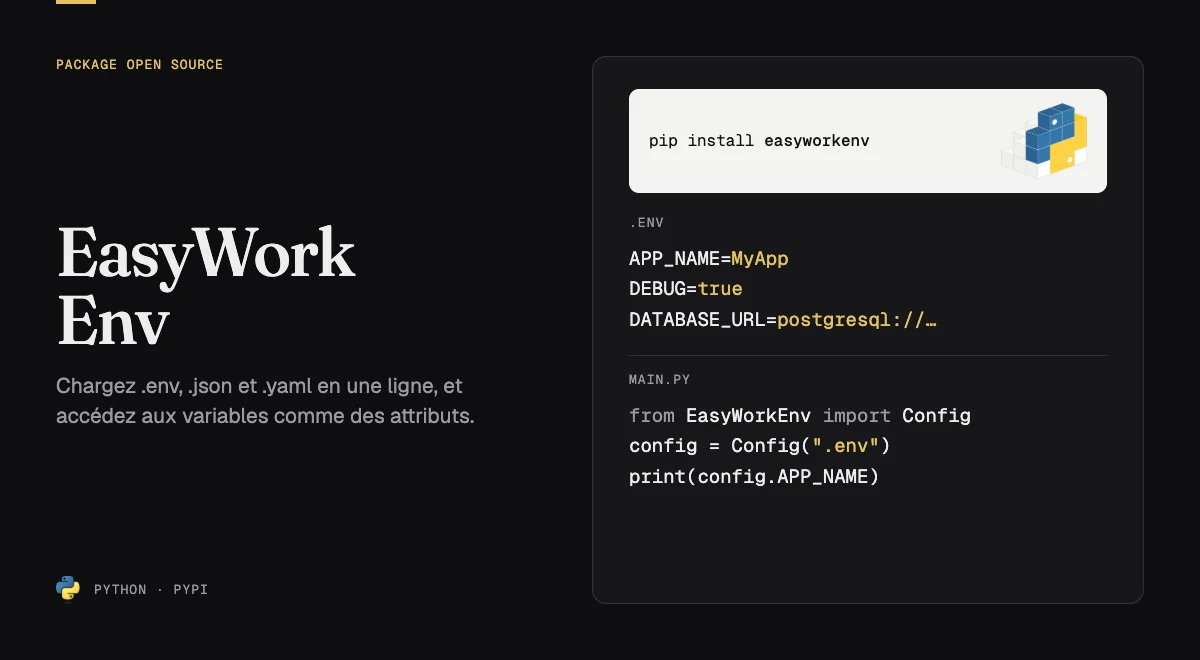
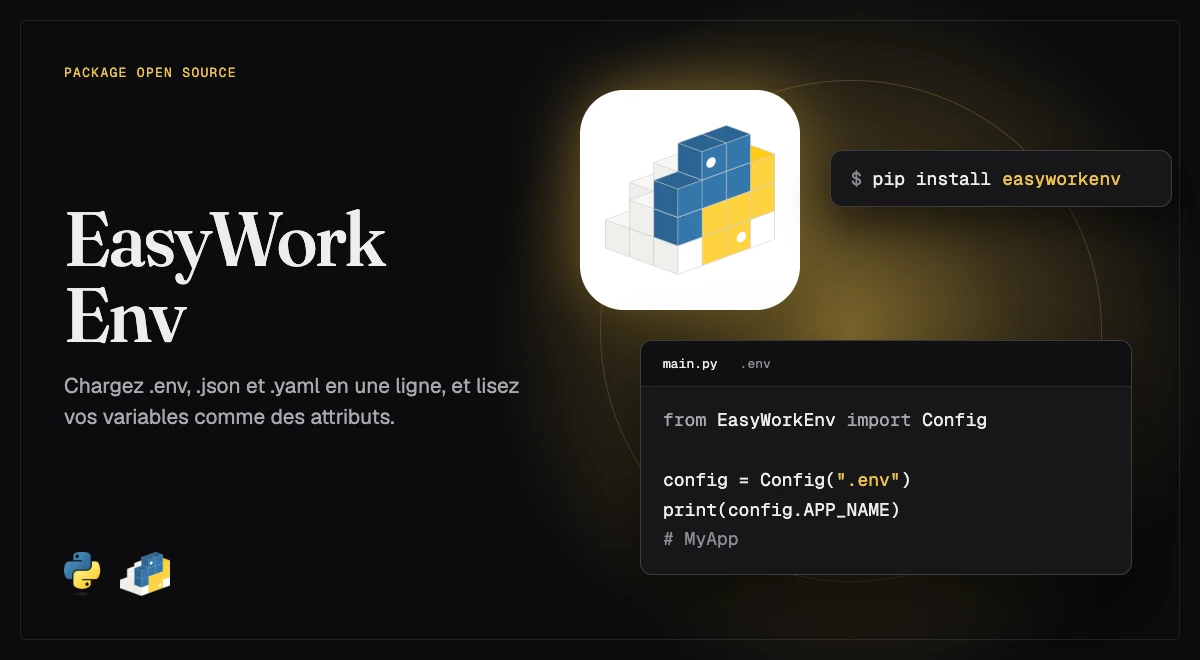
feat(styles): ajustements de mise en page et amélioration des images des projets

diff --git a/src/Styles/PagesProjects.css b/src/Styles/PagesProjects.css
@@ -54,7 +54,7 @@
         0 0 0 1px rgba(255, 255, 255, 0.05) inset;
     overflow: hidden;
     display: flex;
-    flex-direction: row;
+    flex-direction: column;
     transition: all 0.4s cubic-bezier(0.4, 0, 0.2, 1);
     position: relative;
     z-index: 2;
@@ -102,7 +102,9 @@
 }
 
 .project-image {
-    width: 50%;
+    width: calc(100% - 2rem);
+    max-width: calc(100% - 2rem);
+    box-sizing: border-box;
     height: auto;
     aspect-ratio: 1200 / 660;
     align-self: center;
@@ -120,8 +122,8 @@
 }
 
 .project-info {
-    width: 50%;
-    padding: 3rem;
+    width: 100%;
+    padding: 1.5rem 3rem 3rem;
     display: flex;
     flex-direction: column;
     justify-content: space-between;
@@ -163,6 +165,7 @@
     line-height: 1.8;
     color: var(--text-color);
     margin-bottom: 2.5rem;
+    max-width: 78ch;
     transition: color 0.3s ease;
     opacity: 0.9;
 }

diff --git a/src/Styles/Card.css b/src/Styles/Card.css
@@ -1,6 +1,6 @@
 .Card{
     width: 100%;
-    max-width: 380px;
+    max-width: 560px;
     height: auto; 
     border-radius: 16px;
     overflow: hidden;
@@ -16,7 +16,8 @@
 
 .Card img{
     width: 100%; 
-    height: 200px; 
+    height: auto;
+    aspect-ratio: 1200 / 660;
     object-fit: cover;
     display: block;
 }
@@ -70,9 +71,6 @@
 }
 
 @media (max-width: 480px) {
-    .Card img {
-        height: 175px;
-    }
     .bloc-Card {
         padding: 14px 16px;
     }

diff --git a/src/Styles/App.css b/src/Styles/App.css
@@ -228,7 +228,7 @@ a{
 .grid-project {
     margin: 40px auto 80px auto;
     display: grid;
-    grid-template-columns: repeat(auto-fill, minmax(min(100%, 340px), 1fr)); 
+    grid-template-columns: repeat(auto-fill, minmax(min(100%, 460px), 1fr)); 
     gap: 2.5rem; 
     padding: 0 1.25rem; 
     max-width: 1200px;
